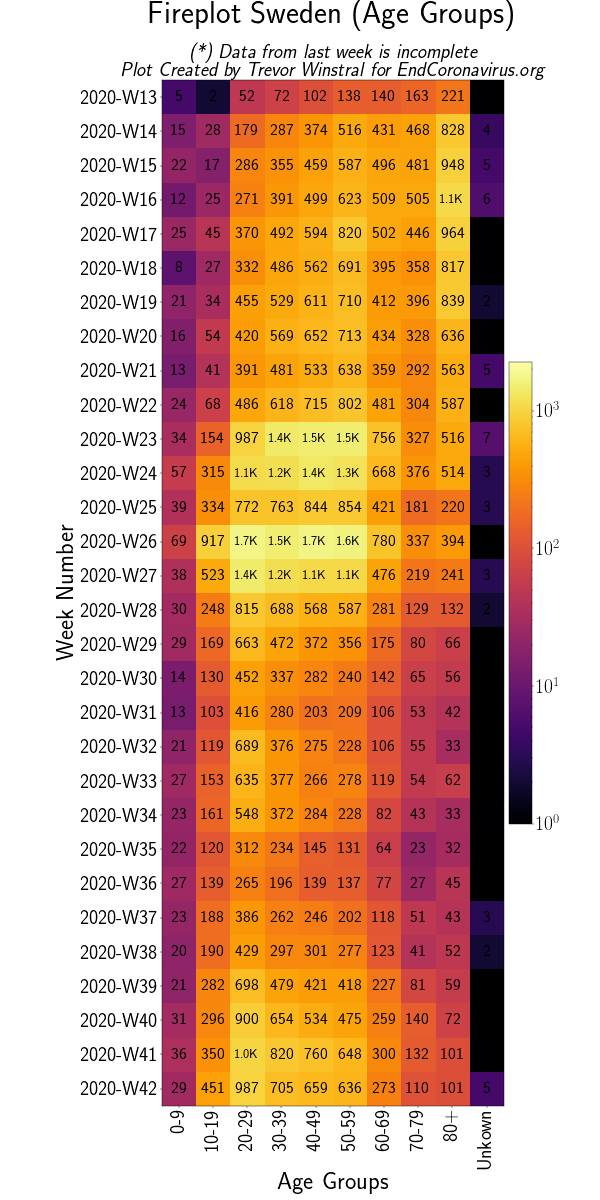
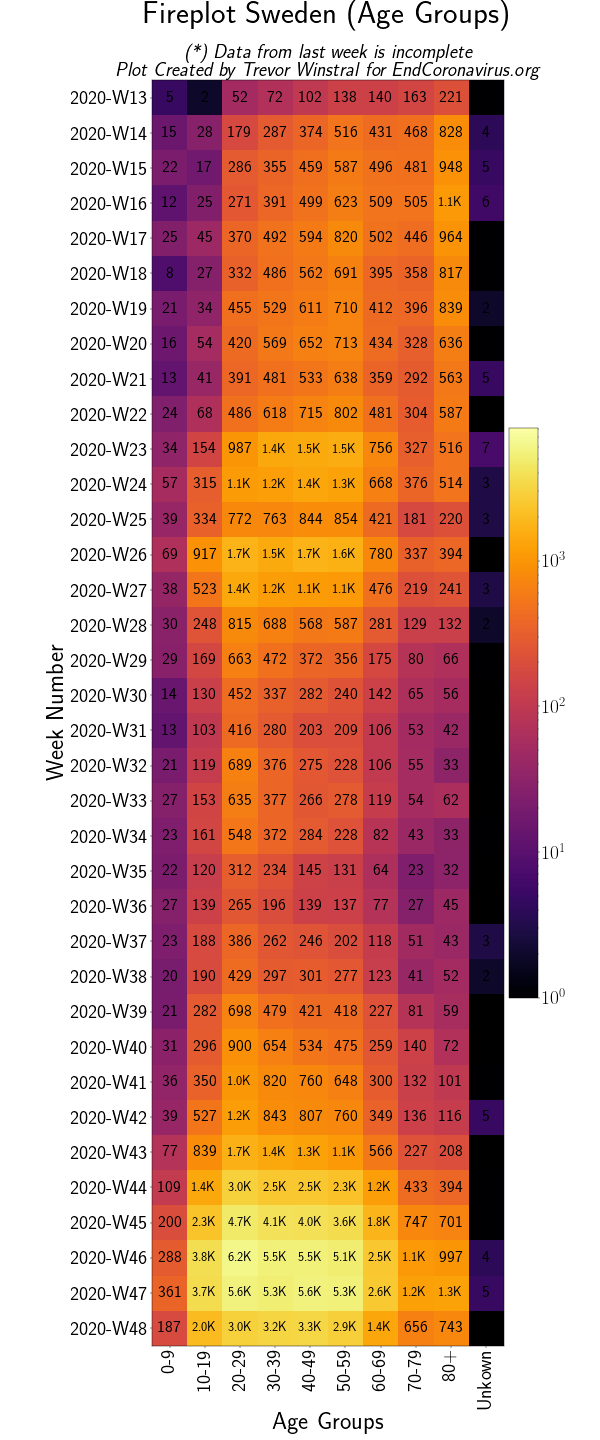
fixed sweden age

diff --git a/fireplot.py b/fireplot.py
@@ -864,7 +864,7 @@ if __name__ == "__main__":
         #UK() # Data Incomplete
         #Italy()
         #Italy_PC()
-        Israel(partitions = 3)
+        #Israel(partitions = 3)
         #India() # Data Incomplete
         #Europe()
         #World()
@@ -874,7 +874,7 @@ if __name__ == "__main__":
         #Zurich()
         #Sweden()
         #Sweden_PC()
-        #Sweden_Age()
+        Sweden_Age()
         #Australia()
         #Australia_PC()
 
